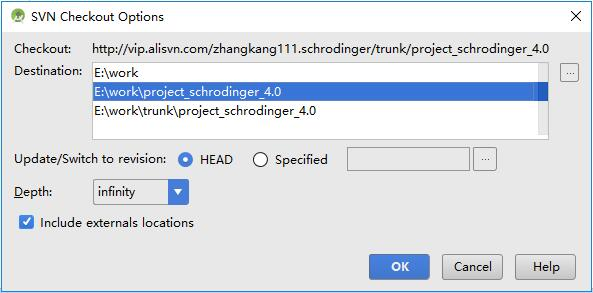
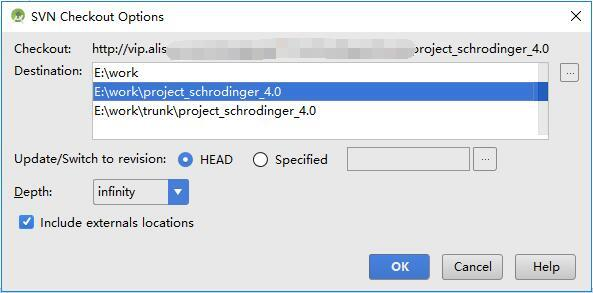
svn

Changed region(s): [[0.2732, 0.1229, 0.6981, 0.215], [0.0, 0.9829, 1.0, 1.0]]

diff --git a/_posts/2018-05-07-android-studio-svn.md b/_posts/2018-05-07-android-studio-svn.md
@@ -1,0 +1,51 @@
+---
+layout:     post
+title:      Android Studio
+subtitle:   Android Studio 下载安装和使用
+date:       2018-05-02
+author:     ricebai
+header-img: img/posts/android-studio/post-bg-android.png
+catalog: true
+tags:
+    - Android Studio
+    - SVN
+---
+
+## SVN 下载与配置
+
+首先我们要确认是否已经安装 `SVN`，如果没有安装点击 [下载](https://www.visualsvn.com/server/download/)。
+
+如果已经下载安装完毕，则需要在安装目录中找到 `snv.exe`。
+
+![svn-exe](https://ricebai.github.io/img/posts/android-studio/svn-exe.jpg)
+
+没有找到 `svn.exe` 的需要重新运行安装包，修复svn。
+
+![svn](https://ricebai.github.io/img/posts/android-studio/svn.jpg)
+
+
+### 配置 SVN
+
+打开 Android Studio，File - Settings - Version Control - Subversion，配置 `svn.exe`。
+
+![svn-set](https://ricebai.github.io/img/posts/android-studio/svn-set.jpg)
+
+### 使用 SVN
+
+打开 Android Studio，菜单中选择 Subversion。
+
+![svn-menu](https://ricebai.github.io/img/posts/android-studio/svn-menu.jpg)
+
+添加 SVN 地址，填写用户名与密码，建议勾选 `Save credentials`，点击 `ok`，点击 `Checkout`。
+
+![svn-add](https://ricebai.github.io/img/posts/android-studio/svn-add.jpg)
+
+选择导出目录。
+
+![svn-checkout](https://ricebai.github.io/img/posts/android-studio/svn-checkout.jpg)
+
+选择导出 `JAVA` 版本
+
+![svn-v](https://ricebai.github.io/img/posts/android-studio/svn-v.jpg)
+
+之后只需要静静的等待即可。
